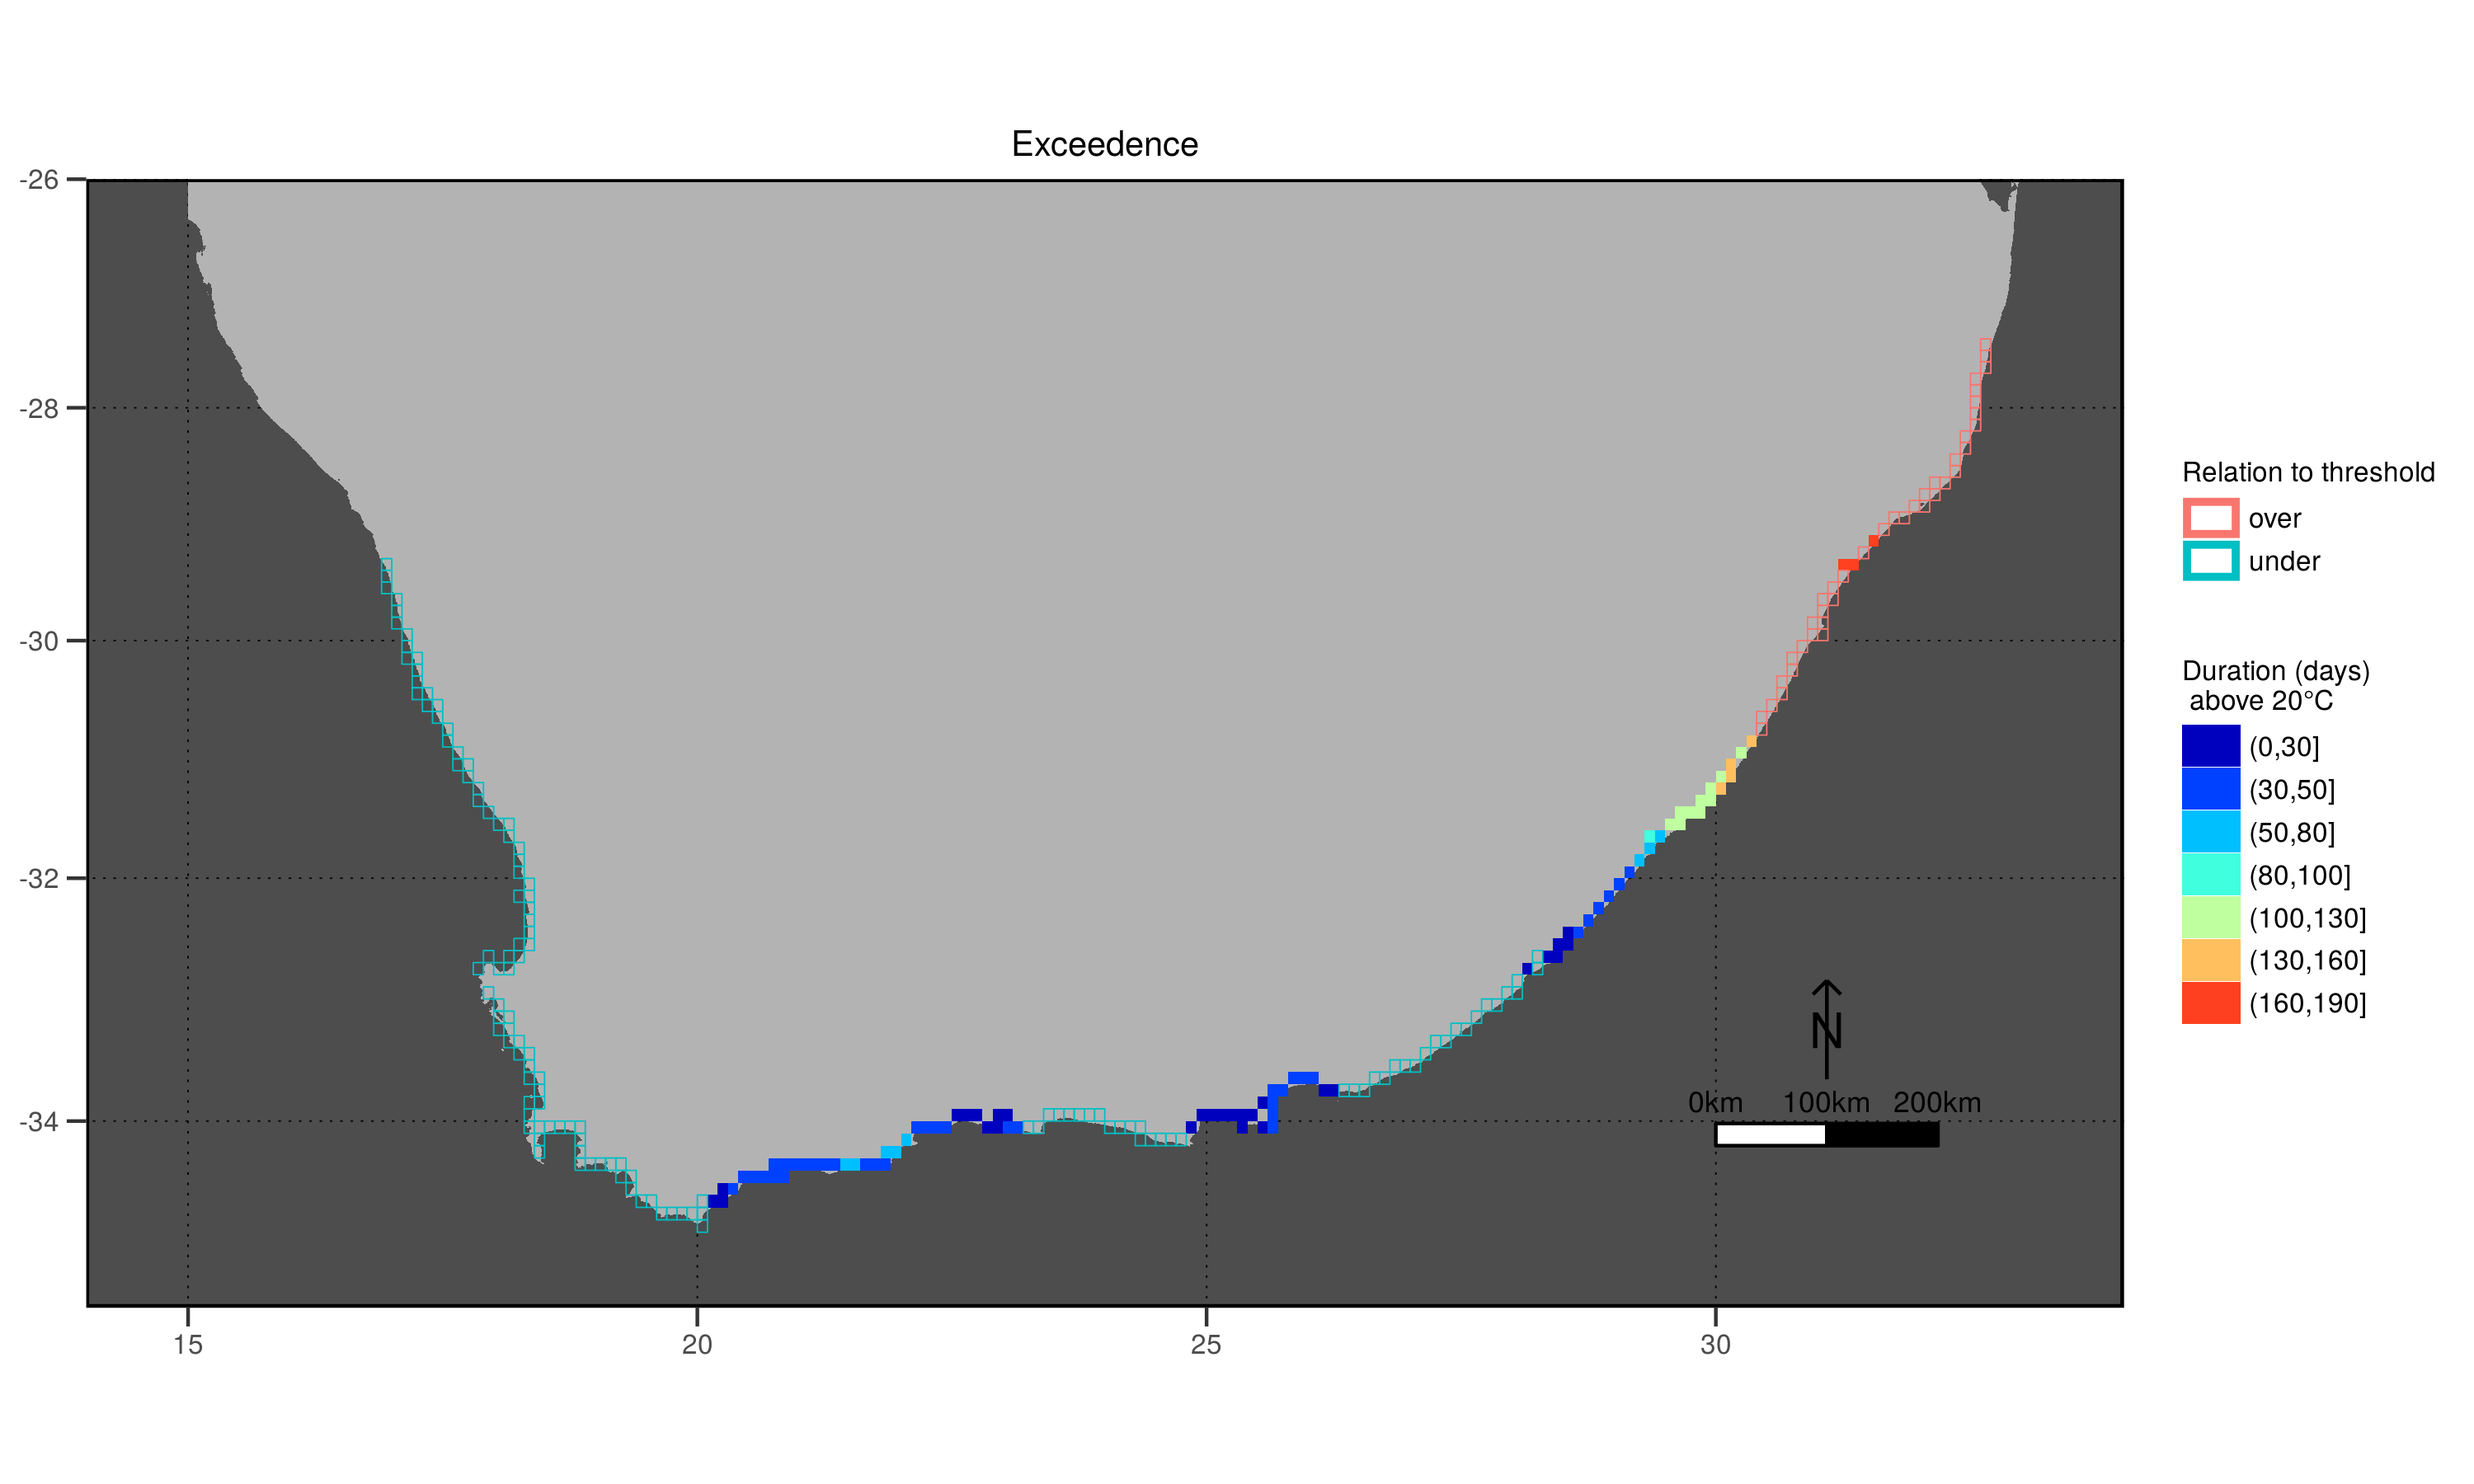
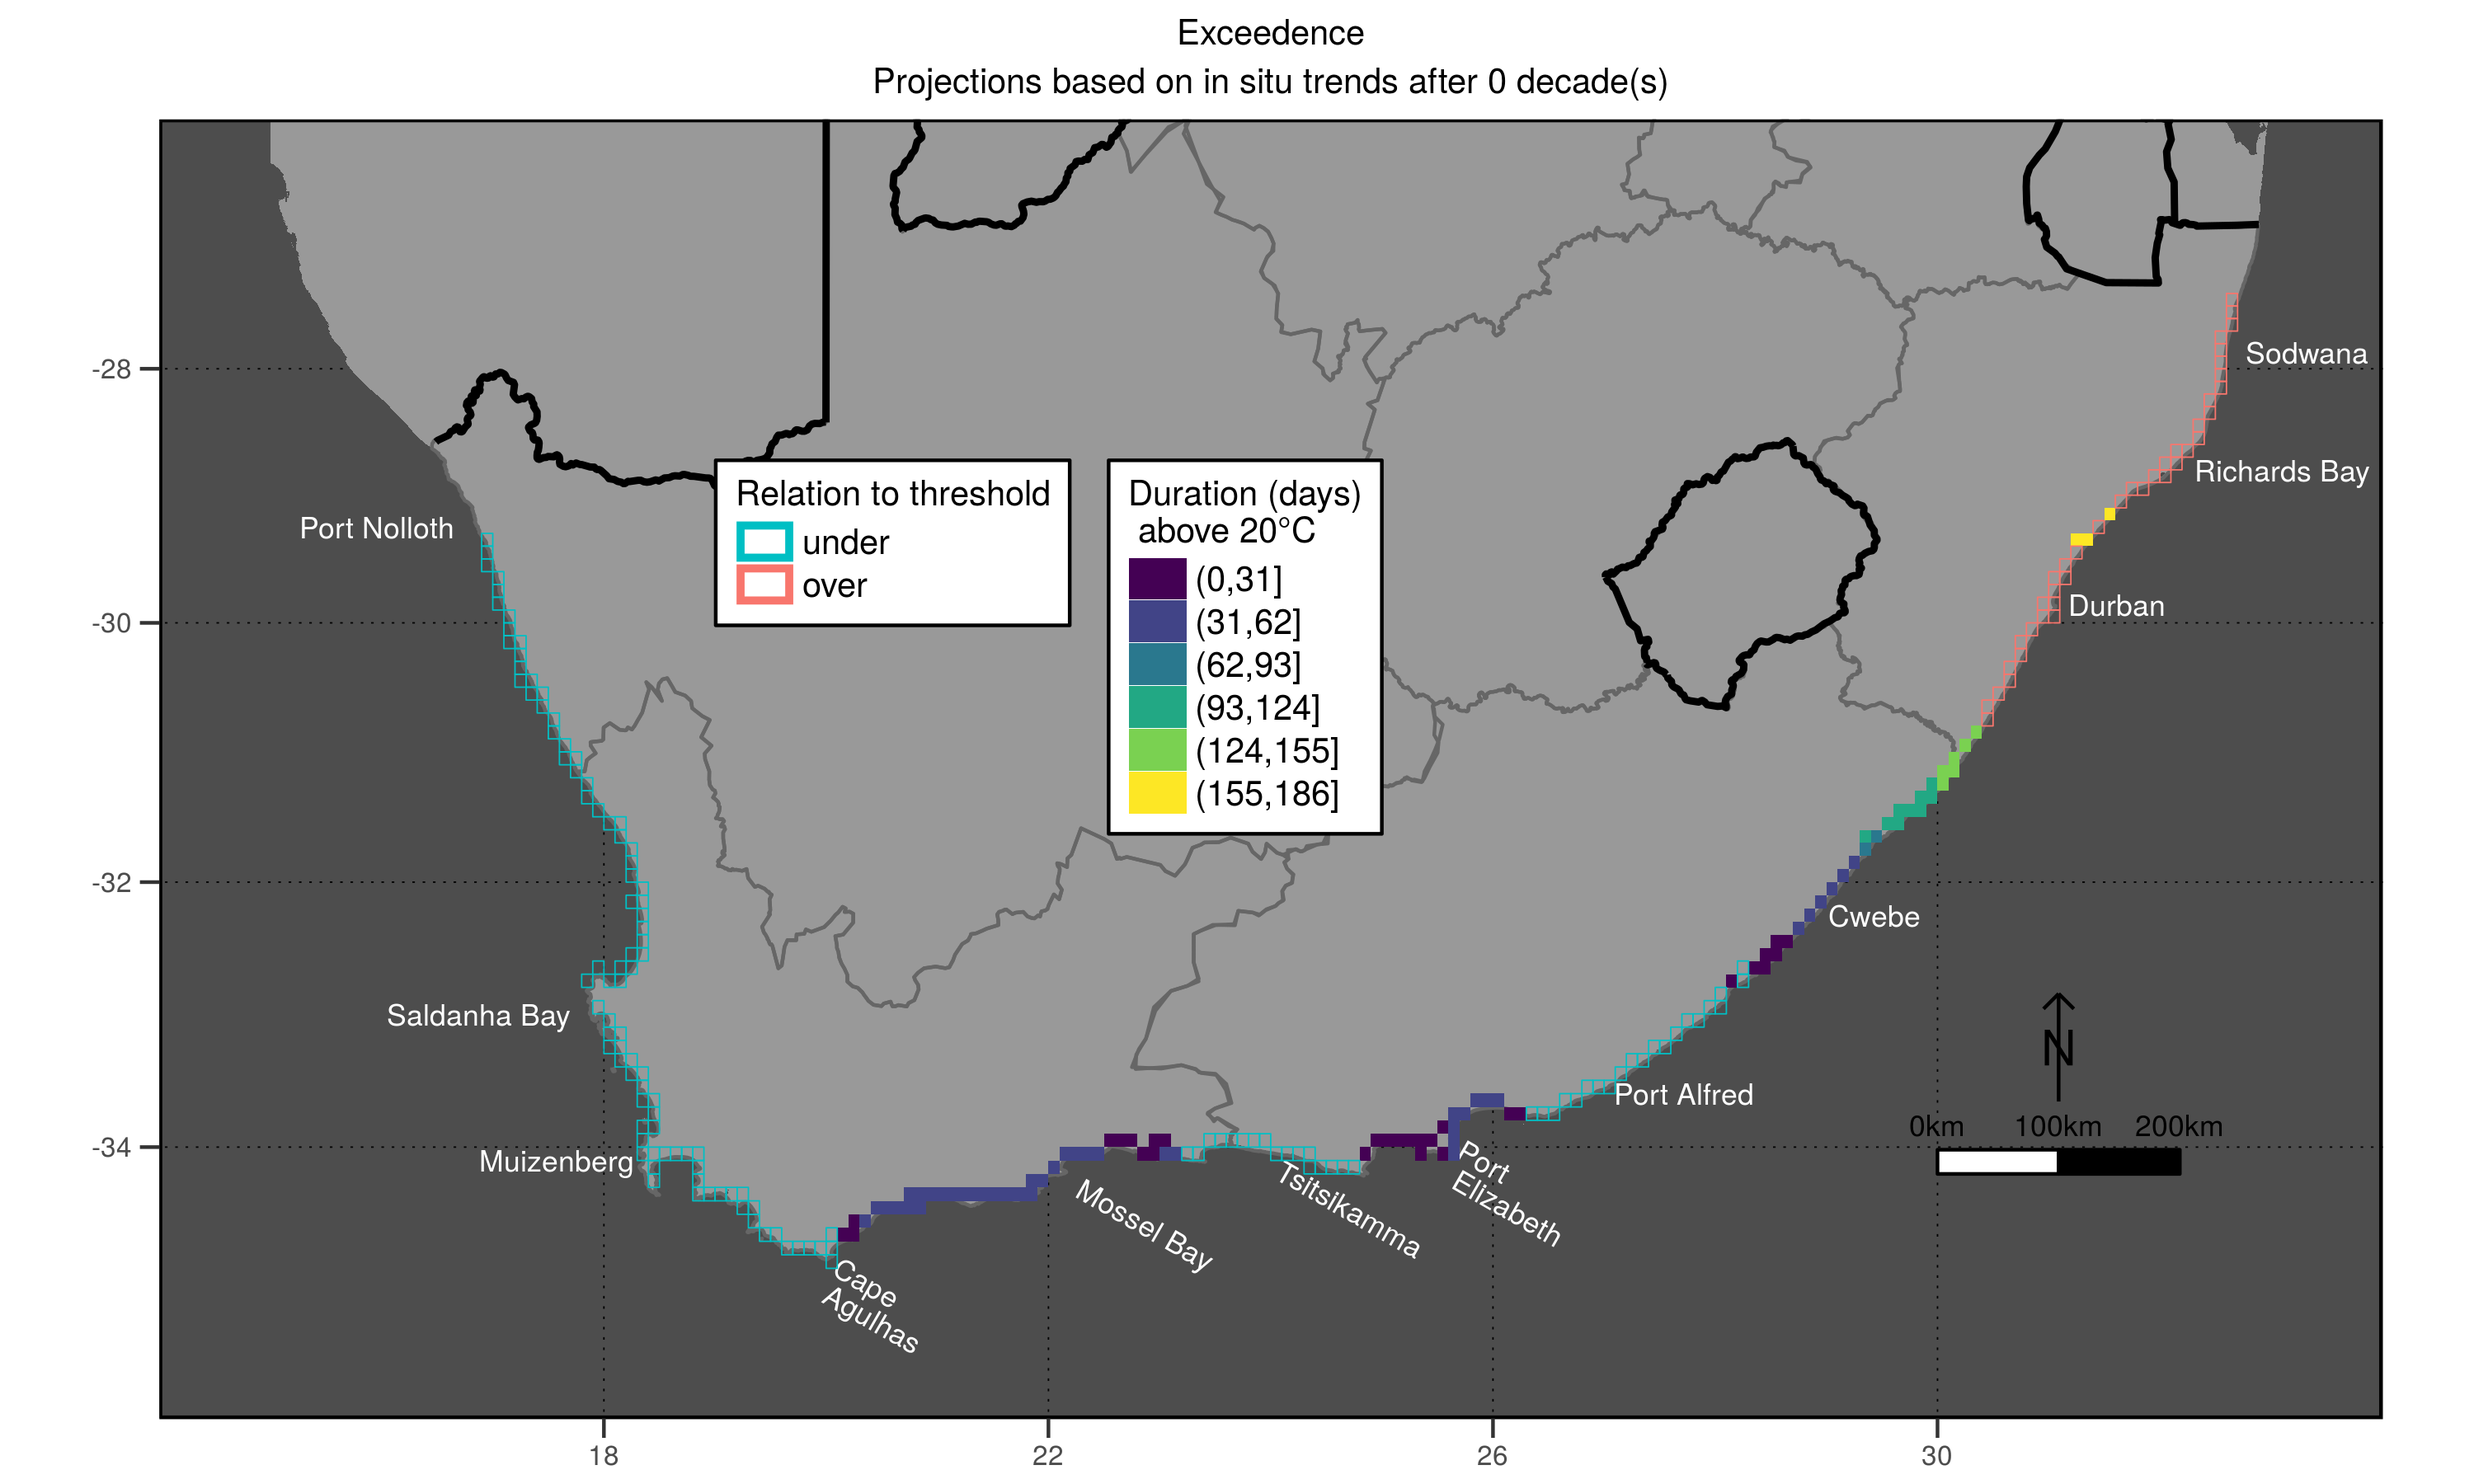
Corrected some animation issues

diff --git a/README.md b/README.md
@@ -22,3 +22,7 @@ Projected range expansions of kelps in South Africa
 ## 2016/01/04
 * Created animations of daily climatologies
 * Created animations of exceedence projections
+
+## 2016/01/05
+* Corrected issues in animation legends
+* Corrected colour scales of animations
